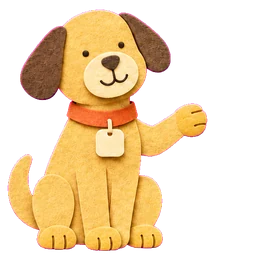
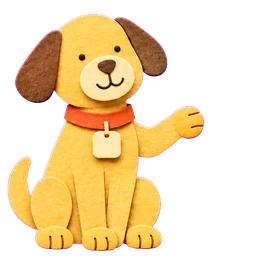
0.77.2: the guide with four legs
The art director redid the sitting gestures of the little dog: three
paws on the ground and one raised, instead of two still down and a
third up. Same names, scale and box.

diff --git a/version.php b/version.php
@@ -25,8 +25,8 @@
 defined('MOODLE_INTERNAL') || die();
 
 $plugin->component = 'local_oksigeniaeguahe';
-$plugin->version   = 2026117003;
-$plugin->release   = '0.77.1';
+$plugin->version   = 2026117004;
+$plugin->release   = '0.77.2';
 $plugin->maturity  = MATURITY_ALPHA;
 $plugin->requires  = 2024100700; // Moodle 4.5, the oldest branch that still gets security fixes.
 $plugin->supported = [405, 503];
